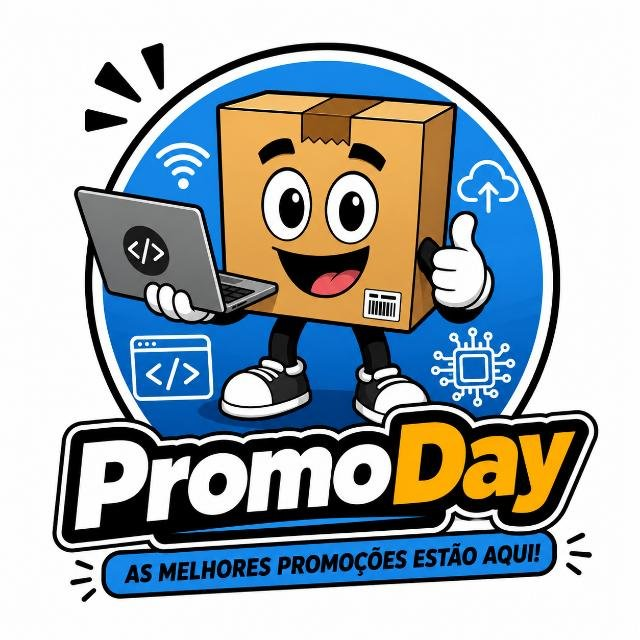
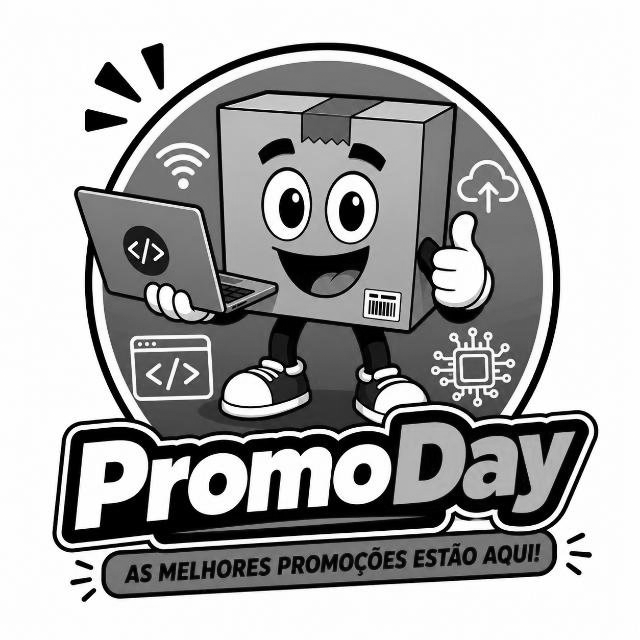
V2.1

Changed region(s): [[0.1562, 0.0938, 0.9062, 0.9375]]

diff --git a/index.html b/index.html
@@ -55,7 +55,7 @@
 
     <!-- PERFUMES -->
     <div class="group-card cat-perfume">
-      <span class="card-badge">⭐ Principal</span>
+      <span class="card-badge">⭐ Perfumes</span>
       <div class="mascot-img-wrap">
         <img src="mascote-perfumes.png" alt="Mascote Perfumes" class="mascote-img">
       </div>
@@ -64,15 +64,15 @@
         <div class="card-desc">Perfumes, cosméticos, maquiagem e produtos de beleza</div>
       </div>
       <div class="card-body">
-        <a id="btn-perfume" class="join-btn" href="#" target="_blank">
-           Entrar no grupo Perfumes
+        <a id="btn-perfume" class="join-btn" href="https://chat.whatsapp.com/LH93sMW1zVTETNlkATW5RA" target="_blank">
+           Entrar agora!
         </a>
       </div>
     </div>
 
     <!-- ESPORTES -->
     <div class="group-card cat-esportes">
-      <span class="card-badge">Esportes</span>
+      <span class="card-badge">Em obras...</span>
       <div class="mascot-img-wrap">
         <img src="mascote-esportes.png" alt="Mascote Esportes" class="mascote-img">
       </div>
@@ -82,14 +82,14 @@
       </div>
       <div class="card-body">
         <a id="btn-esportes" class="join-btn" href="#" target="_blank">
-          Entrar no grupo Esportes
+          Aguarde, novidades em breve!
         </a>
       </div>
     </div>
 
     <!-- FERRAMENTAS -->
     <div class="group-card cat-ferramentas">
-      <span class="card-badge">Ferramentas</span>
+      <span class="card-badge">Em obras...</span>
       <div class="mascot-img-wrap">
         <img src="mascote-ferramentas.png" alt="Mascote Ferramentas" class="mascote-img">
       </div>
@@ -99,14 +99,14 @@
       </div>
       <div class="card-body">
         <a id="btn-ferramentas" class="join-btn" href="#" target="_blank">
-          Entrar no grupo Ferramentas
+          Aguarde, novidades em breve!
         </a>
       </div>
     </div>
 
     <!-- TECH -->
     <div class="group-card cat-tech">
-      <span class="card-badge">Tech</span>
+      <span class="card-badge">Em obras...</span>
       <div class="mascot-img-wrap">
         <img src="mascote-tech.png" alt="Mascote Tech" class="mascote-img">
       </div>
@@ -116,7 +116,7 @@
       </div>
       <div class="card-body">
         <a id="btn-tech" class="join-btn" href="#" target="_blank">
-          Entrar no grupo Tech
+          Aguarde, novidades em breve!
         </a>
       </div>
     </div>
@@ -154,8 +154,8 @@
   <h2>📦 Não perca mais nenhuma promoção</h2>
   <p>Mais de 1.000 pessoas já estão economizando com a PromoZap todo dia</p>
   <div class="cta-btn-row">
-    <a href="#grupos" class="cta-btn-primary">Entrar grátis agora</a>
-    <a href="https://instagram.com" target="_blank" class="cta-btn-secondary">Seguir no Instagram</a>
+    <a href="https://chat.whatsapp.com/LH93sMW1zVTETNlkATW5RA" class="cta-btn-primary">Entrar grátis agora</a>
+    <a href="https://www.instagram.com/promozap.ofc/" target="_blank" class="cta-btn-secondary">Seguir no Instagram</a>
   </div>
 </div>
 
@@ -163,7 +163,7 @@
 <footer>
   <div class="foot-logo">Promo<span>Zap</span></div>
   <p>📦👍 Afiliado oficial Mercado Livre &nbsp;·&nbsp; 100% gratuito &nbsp;·&nbsp; Links seguros</p>
-  <p style="margin-top:6px;">© 2025 PromoZap — Todos os direitos reservados</p>
+  <p style="margin-top:6px;"> ©2026 PromoZap — Todos os direitos reservados</p>
 </footer>
 
 <script src="script.js"></script>

diff --git a/script.js b/script.js
@@ -65,4 +65,5 @@ document.querySelector('a[href="#grupos"]').addEventListener('click', e => {
   document.querySelector('.groups-grid').scrollIntoView({ behavior: 'smooth' });
 });
 
+
 loadLinks();